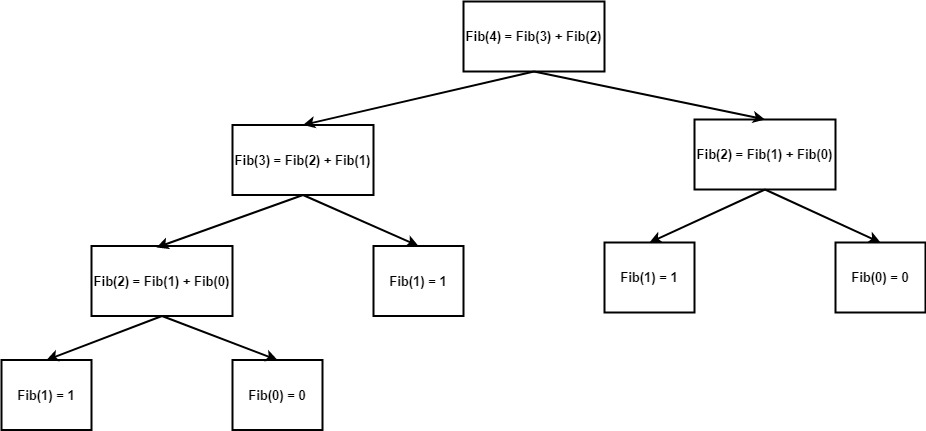
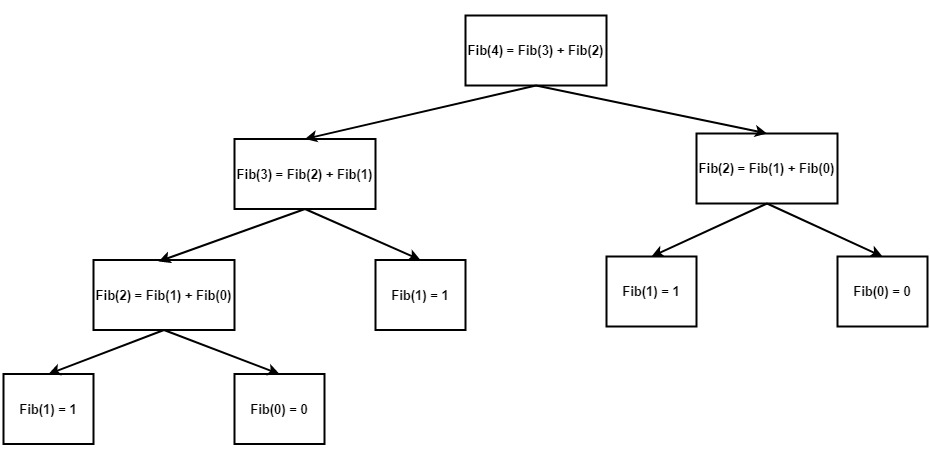
Apply comments

diff --git a/doc/main/tbb_userguide/design_patterns/Lazy_Initialization.rst b/doc/main/tbb_userguide/design_patterns/Lazy_Initialization.rst
@@ -10,8 +10,8 @@ Lazy Initialization
    .. rubric:: Problem
       :class: sectiontitle
 
-   Delay the creation of an object (potentially expensive) until it is accessed.
-   In parallel programming initialization also must be guarded against race conditions.
+   Delay the creation of an object, potentially expensive, until it is accessed.
+   In parallel programming, initialization must also be guarded against race conditions.
 
 
 .. container:: section
@@ -22,8 +22,8 @@ Lazy Initialization
 
    The cost of operations that take place during the initialization
    of the object may be considerably high. In that case, the object
-   should be initialized only when it is needed. Lazy initialization
-   is the common tactic that allows implementing such approach.
+   should be initialized only when needed. Lazy initialization is
+   the common tactic that allows implementing such an approach.
 
 
 .. container:: section
@@ -47,8 +47,9 @@ Lazy Initialization
    .. rubric:: Example
       :class: sectiontitle
 
-   The example presented here illustrate implementation of "lazy initialization" for Fibonacci numbers calculation.
-   Here is a graphical representation of the Fibonacci recursion tree for N=4.
+   This example illustrates the implementation of lazy initialization
+   for the calculation of the Fibonacci numbers. Here is a graphical
+   representation of the Fibonacci recursion tree for N=4.
 
 
    |image0|
@@ -58,17 +59,17 @@ Lazy Initialization
    so the "lazy initialized" Fibonacci numbers are relevant here.
 
 
-   An implementation without the use of "lazy initialization" would have *O(2^N)* time complexity due to
+   An implementation without the use of lazy initialization would have *O(2^N)* time complexity due to
    the full recursion tree traversal and recalculation of values. Since all the nodes are traversed once,
-   the tree previously shown becomes a list, making the time complexity *O(N)*.
+   the tree becomes a list, making the time complexity *O(N)*.
 
 
    |image1|
 
 
-   The code for the implementation is shown below. Already calculated values are stored in a buffer paired with
-   ``collaborative_once_flag`` and won't be recalculated when ``collaborative_call_once`` is invoked
-   when initialization has already been done.
+   Here you can see the code for the implementation. Already calculated values are stored in a buffer
+   paired with ``collaborative_once_flag`` and will not be recalculated when ``collaborative_call_once``
+   is invoked when initialization has already been done.
 
 
    ::
@@ -101,8 +102,8 @@ Lazy Initialization
 
 
 .. |image0| image:: Images/image008a.jpg
-   :width: 740px
-   :height: 344px
+   :width: 744px
+   :height: 367px
 .. |image1| image:: Images/image009a.jpg
-   :width: 740px
-   :height: 344px
+   :width: 744px
+   :height: 367px
